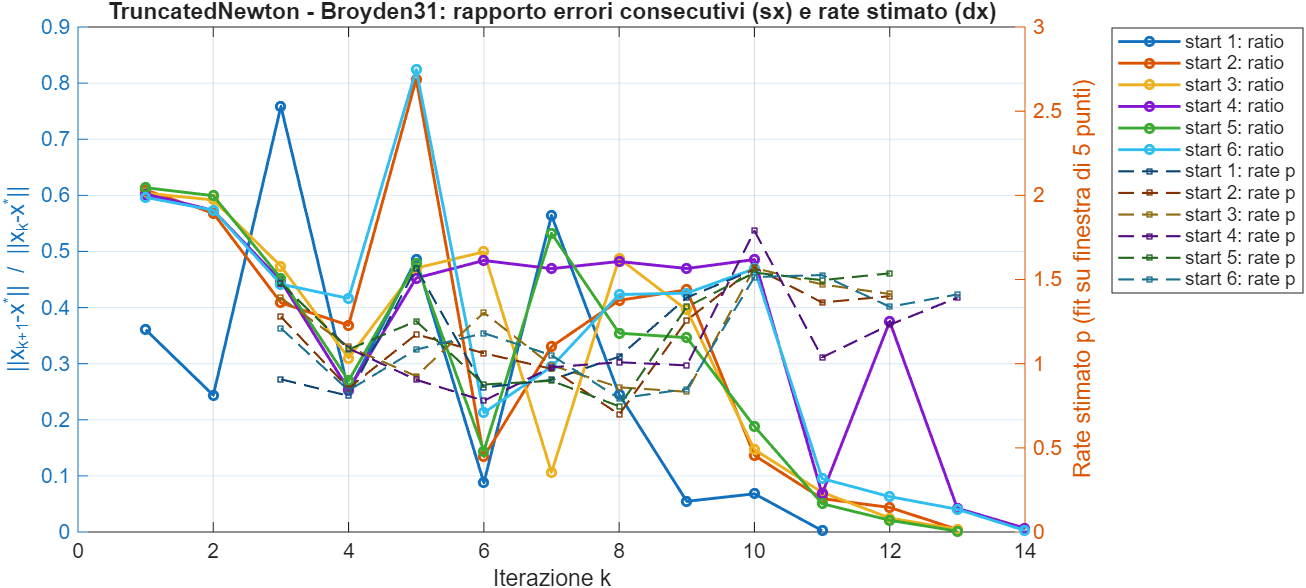
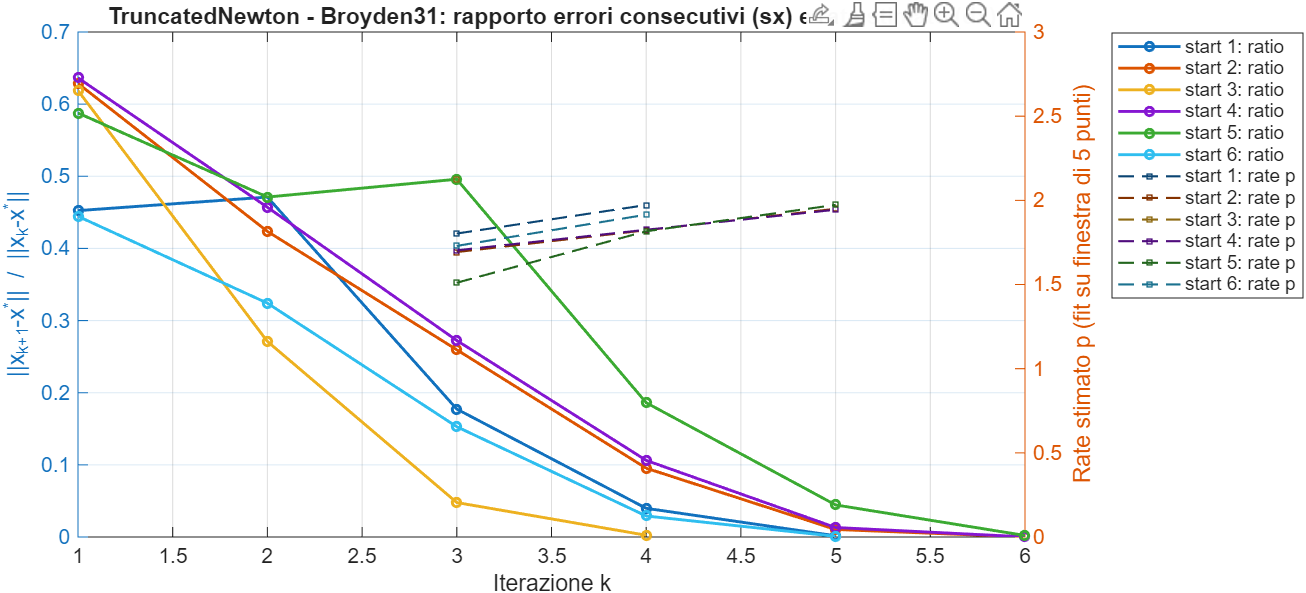
risolto bug che io ho creato su cg

diff --git a/run_experiments_31.m b/run_experiments_31.m
@@ -9,7 +9,7 @@ clear; clc; close all;
 seed    = 1234; % <-- UPDATE THIS WITH YOUR TEAM'S MINIMUM ID[cite: 2]
 tolgrad = 1e-6;
 
-n_list  = [2, 1e3]; % Required dimensions[cite: 2]
+n_list  = [2, 1e3, 1e4, 1e5]; % Required dimensions[cite: 2]
 k_list  = [4, 8, 12];         % Required k values for FD[cite: 2]
 fdtypes = [1, 2];             % 1 = constant step (h), 2 = relative step (hi)
 
@@ -21,7 +21,7 @@ params_modified.beta = 1e-2;
 
 params_truncated.kmax = 20;  params_truncated.c1 = 1e-4;
 params_truncated.rho  = 0.3; params_truncated.btmax = 10;
-params_truncated.max_cg = 20;
+params_truncated.max_cg = 200;
 
 % --- Main Loop ---
 results = struct([]);
@@ -142,7 +142,7 @@ save('broyden31_fd_results.mat', 'results');
 disp('Done. Results saved in broyden31_fd_results.mat');
 
 %% --- Esempio: grafico per Truncated Newton, esatto, n=1000 ---
-n_target    = 1000;
+n_target    = 10000;
 mask = [results.n] == n_target & [results.deriv_mode]=="exact" & ...
         [results.method]== "truncated";
 

diff --git a/truncated_newton_method.m b/truncated_newton_method.m
@@ -188,6 +188,10 @@ while k < kmax && gradfk_norm >= tolgrad
     end
 
     j_cg = j;
+    if j == max_cg
+        disp('MAX CG (Truncated Newton): maximum number of cg iterations reached.');
+        p_tn = z;   % CG esaurito senza soddisfare curvatura negativa o tolleranza: usa l'ultimo iterato valido
+    end
     pk = p_tn;
     
     if norm(pk) <= 1e-12
